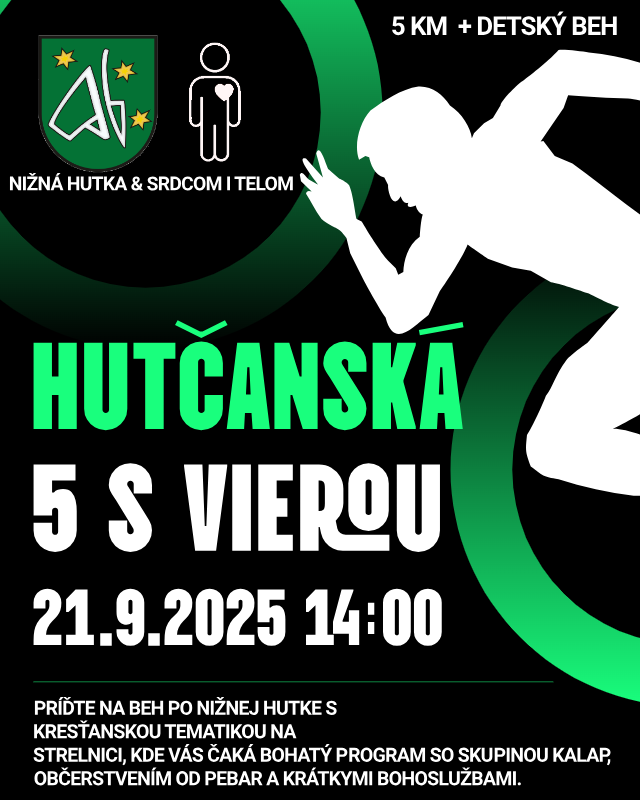
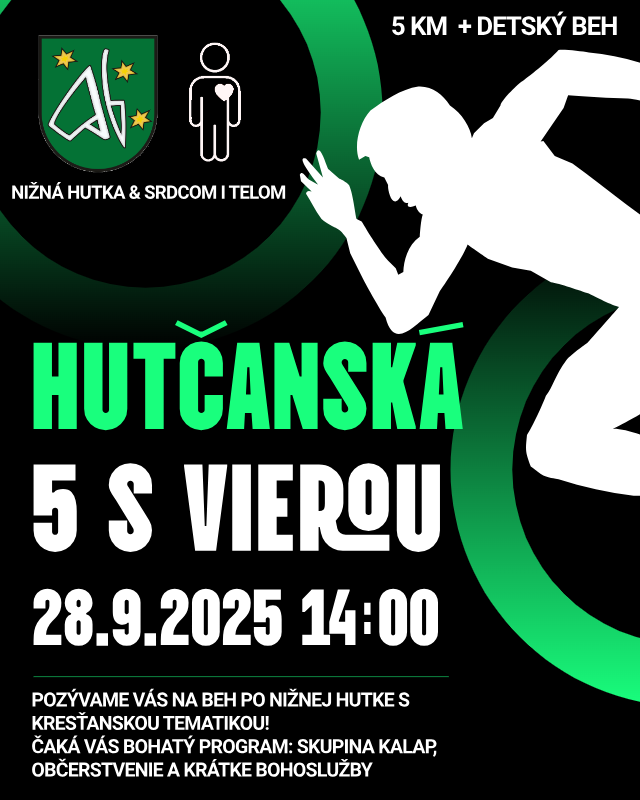
mensie úpravy

Changed region(s): [[0.0312, 0.8438, 0.9688, 1.0], [0.0938, 0.7188, 0.6875, 0.8125], [0.0, 0.2188, 0.4688, 0.25]]

diff --git a/app/page.js b/app/page.js
@@ -140,7 +140,7 @@ export default function Home() {
               transition={{ duration: 0.8, delay: 0.4, ease: "easeOut" }}
               className="mt-2 text-lg md:text-xl text-white font-sans"
             >
-              21. September | Strelnica, Nižná Hutka
+              28. September | Strelnica, Nižná Hutka
             </motion.p>
             <motion.div
               initial={{ opacity: 0, scale: 0.8 }}
@@ -276,15 +276,16 @@ export default function Home() {
               </div>
               <div className="bg-[#05371b] p-6 rounded-lg shadow-lg">
                 <h3 className="text-2xl font-bold mb-2 text-[#19ff7d] font-sans">
-                  1km Detský beh
+                  500m Detský beh
                 </h3>
                 <p className="text-lg mb-4 font-sans">
                   Zábavná trasa pre najmenších.
                 </p>
                 {/* Image for Kids route */}
+
                 <div className="relative w-full h-64 mb-4 rounded-md overflow-hidden border-2 border-[#19ff7d]">
                   <iframe
-                    src="https://www.google.com/maps/embed?pb=!1m32!1m12!1m3!1d4337.7760499758715!2d21.3569382971221!3d48.655560985221314!2m3!1f0!2f0!3f0!3m2!1i1024!2i768!4f13.1!4m17!3e2!4m3!3m2!1d48.6549185!2d21.364753399999998!4m3!3m2!1d48.655750999999995!2d21.359613!4m3!3m2!1d48.6561994!2d21.3607563!4m3!3m2!1d48.654973299999995!2d21.3647796!5e1!3m2!1ssk!2ssk!4v1752834750071!5m2!1ssk!2ssk"
+                    src="https://www.google.com/maps/embed?pb=!1m28!1m12!1m3!1d2168.945228184228!2d21.36338242645262!3d48.65423132130512!2m3!1f0!2f0!3f0!3m2!1i1024!2i768!4f13.1!4m13!3e2!4m3!3m2!1d48.6534951!2d21.3672447!4m3!3m2!1d48.6549676!2d21.36467!4m3!3m2!1d48.653653399999996!2d21.3671987!5e1!3m2!1ssk!2ssk!4v1753130637868!5m2!1ssk!2ssk"
                     width="100%"
                     height="100%"
                     style={{ border: 0 }}

diff --git a/components/sponsors-slider.jsx b/components/sponsors-slider.jsx
@@ -7,8 +7,8 @@ export default function SponsorsSlider() {
   const sponsors = [
     { name: "Online Relax", logo: "/sponzori/logo-onlinerelax.png" },
     { name: "Exodus Coworking", logo: "/sponzori/logo-exodus.svg" },
-    { name: "x", logo: "/sponzori/x.png" },
-    { name: "x", logo: "/sponzori/x.png" },
+    { name: "Masážny salón Patty", logo: "/sponzori/patty.png" },
+    { name: "Srdcom i telom", logo: "/sponzori/srdcomitelom.png" },
     { name: "x", logo: "/sponzori/x.png" },
     { name: "x", logo: "/sponzori/x.png" },
   ];
@@ -38,8 +38,8 @@ export default function SponsorsSlider() {
             <Image
               src={sponsor.logo || "/placeholder.svg"}
               alt={sponsor.name}
-              width={120}
-              height={60}
+              width={150}
+              height={80}
               objectFit="contain"
             />
           </div>
